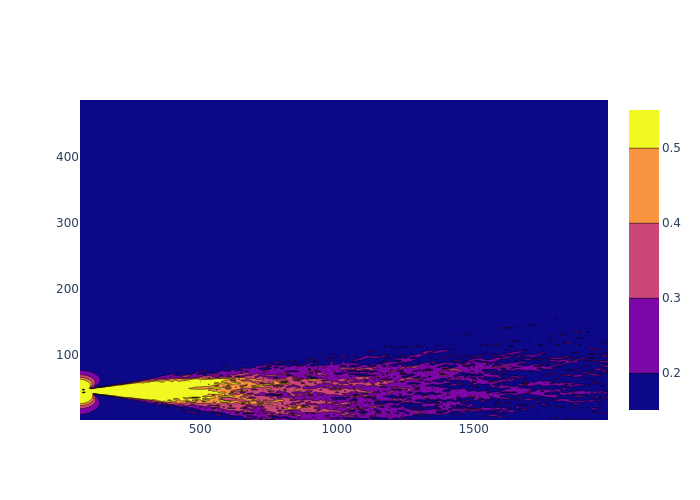
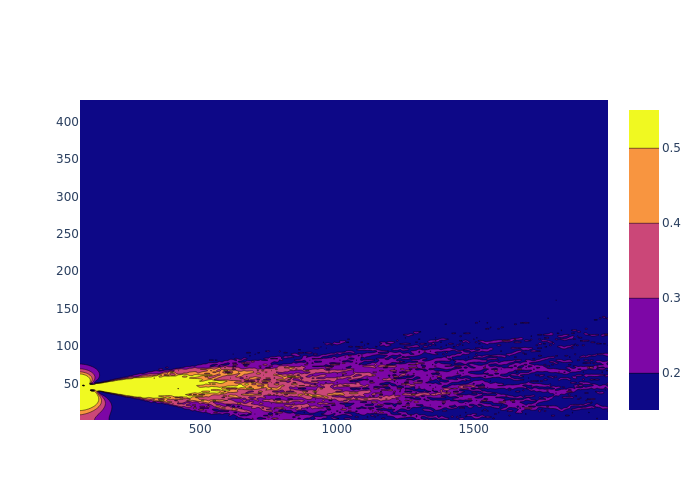
j

diff --git a/Übung_3/ubung3.py b/Übung_3/ubung3.py
@@ -204,9 +204,9 @@ fig = go.Figure(data =
         x=[x for x in range(nx)] ,#.insert(, # horizontal axis
         y=[x for x in range(nz)] , # vertical axis
         contours=dict(
-            start=0.2,
-            end=0.5,
-            size=0.1,
+            start=0,
+            end=0.3,
+            size=0.05,
         ),
     ))
 #fig.show()
